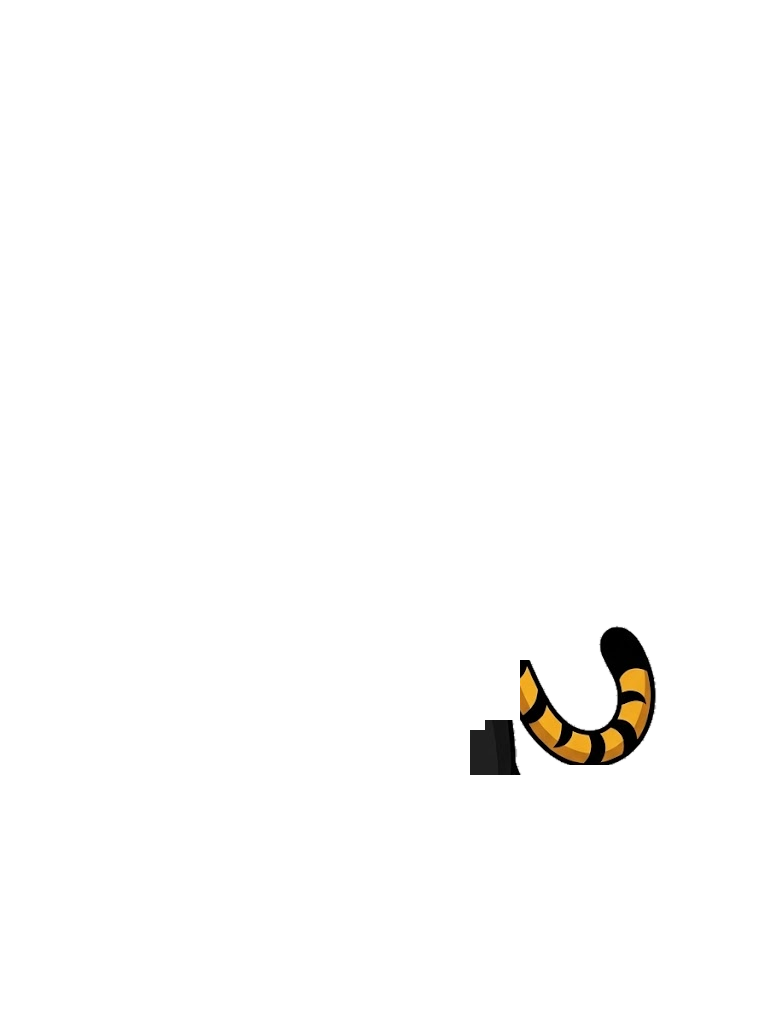
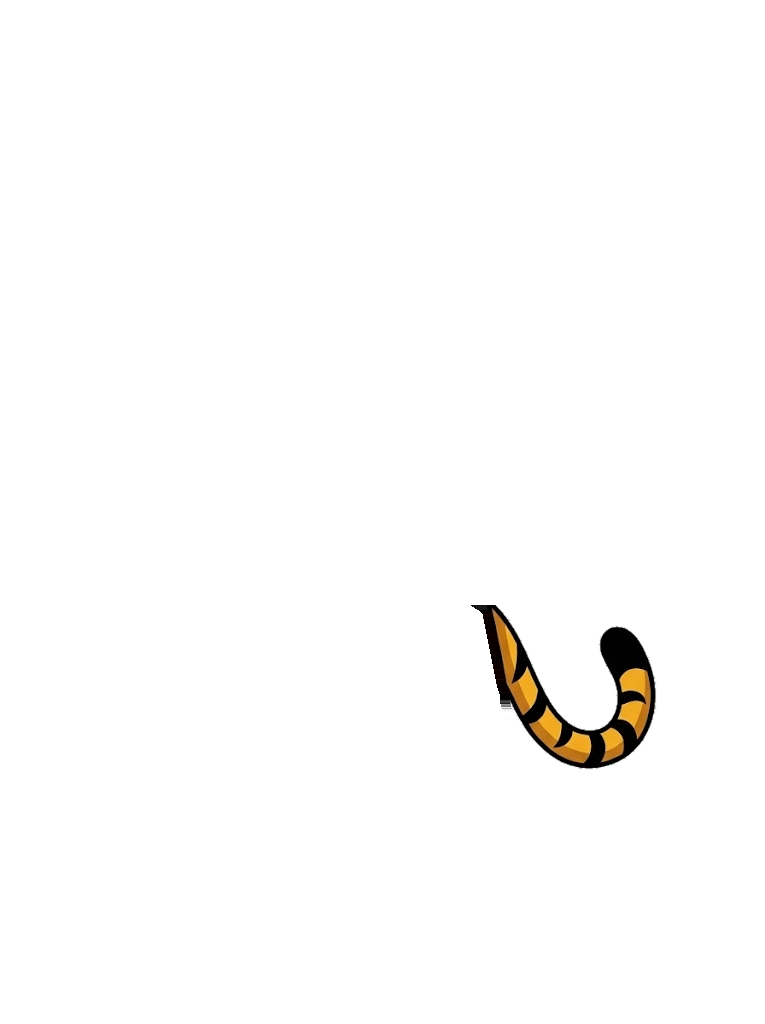
feat(mascot): add 2D layered rigging with motion, fix tail cut, and enlarge layout

Changed region(s): [[0.6013, 0.5938, 0.6915, 0.7812]]

diff --git a/src/components/mascot/RoboticTiger.tsx b/src/components/mascot/RoboticTiger.tsx
@@ -1,4 +1,5 @@
-import React from 'react';
+import React, { useState, useEffect } from 'react';
+import { motion, AnimatePresence } from 'motion/react';
 import { ASSET_MANIFEST } from '../../assets/assetManifest';
 
 export interface RoboticTigerProps {
@@ -10,11 +11,29 @@ export interface RoboticTigerProps {
 }
 
 export const RoboticTiger: React.FC<RoboticTigerProps> = ({
+  isStreaming,
   isStabilizing,
   isConfirmed,
   isComplete,
 }) => {
   const isExcited = isStabilizing || isConfirmed || isComplete;
+
+  // Accessibility: Respect user's reduced-motion preference
+  const [prefersReducedMotion, setPrefersReducedMotion] = useState(false);
+
+  useEffect(() => {
+    if (typeof window !== 'undefined' && window.matchMedia) {
+      const mediaQuery = window.matchMedia('(prefers-reduced-motion: reduce)');
+      setPrefersReducedMotion(mediaQuery.matches);
+
+      const handleChange = (e: MediaQueryListEvent) => {
+        setPrefersReducedMotion(e.matches);
+      };
+
+      mediaQuery.addEventListener('change', handleChange);
+      return () => mediaQuery.removeEventListener('change', handleChange);
+    }
+  }, []);
 
   return (
     <div className="relative w-full h-full flex items-end justify-center select-none overflow-hidden">
@@ -24,33 +43,142 @@ export const RoboticTiger: React.FC<RoboticTigerProps> = ({
         aria-hidden="true"
       />
 
-      {/* Layered Animated Mascot Structure */}
-      <div className="relative z-10 w-full max-w-[150px] sm:max-w-[200px] md:max-w-[250px] lg:max-w-[320px] flex items-end justify-center">
-        {/* Breathing & Swaying Wrapper */}
-        <div
-          className={`relative w-full h-auto aspect-[765/1024] animate-mascot-breathe transition-transform duration-300 ${
-            isComplete
-              ? 'scale-105'
-              : isConfirmed
-              ? 'scale-[1.02]'
-              : 'hover:scale-[1.01]'
-          }`}
-        >
-          {/* 1. Tail Layer (Behind Body, wags with anatomical hip pivot) */}
-          <img
+      {/* Layered Animated Mascot Structure with Expanded Sizing */}
+      <div className="relative z-10 w-full max-w-[200px] sm:max-w-[260px] md:max-w-[300px] lg:max-w-[360px] xl:max-w-[400px] flex items-end justify-center">
+        {/* Aspect-Ratio Container */}
+        <div className="relative w-full h-auto aspect-[765/1024]">
+          {/* 1. Stylized Angry Exclamation Mark (Pops up above head when camera is inactive) */}
+          <AnimatePresence>
+            {!isStreaming && !prefersReducedMotion && (
+              <motion.div
+                key="mascot-exclamation"
+                className="absolute z-30 pointer-events-none"
+                style={{ top: '2%', right: '22%' }}
+                initial={{ opacity: 0, scale: 0, rotate: -15, y: 12 }}
+                animate={{
+                  opacity: [0, 1, 1, 1, 0],
+                  scale: [0, 1.25, 0.95, 1, 0.85],
+                  rotate: [-15, -8, -10, -8, -12],
+                  y: [12, -4, 0, -2, 6],
+                }}
+                exit={{ opacity: 0, scale: 0 }}
+                transition={{
+                  duration: 3.8,
+                  repeat: Infinity,
+                  repeatDelay: 1.4,
+                  ease: 'easeOut',
+                }}
+                aria-hidden="true"
+              >
+                <div className="flex flex-col items-center select-none filter drop-shadow-[0_2px_5px_rgba(0,0,0,0.4)]">
+                  <div className="w-2.5 sm:w-3.5 h-6 sm:h-8 bg-maunc-yellow border-[2.5px] border-slate-950 rounded-[3px] -rotate-3" />
+                  <div className="w-2.5 sm:w-3.5 h-2.5 sm:h-3.5 bg-maunc-yellow border-[2.5px] border-slate-950 rounded-full mt-1 -rotate-3" />
+                </div>
+              </motion.div>
+            )}
+          </AnimatePresence>
+
+          {/* 2. TAIL LAYER (Back layer, wags smoothly from exact anatomical waist connection) */}
+          <motion.img
             src={ASSET_MANIFEST.mascotTail}
             alt="Ekor Maskot MAUNC"
-            className={`absolute inset-0 w-full h-full object-contain pointer-events-none select-none ${
-              isExcited ? 'animate-mascot-tail-fast' : 'animate-mascot-tail'
-            }`}
+            className="absolute inset-0 w-full h-full object-contain pointer-events-none select-none"
+            style={{
+              transformOrigin: '64.1% 60.1%',
+              willChange: 'transform',
+            }}
+            animate={
+              prefersReducedMotion
+                ? { rotate: 0 }
+                : isExcited
+                ? {
+                    rotate: [0, 7, -3, 9, -2, 6, 0],
+                    transition: {
+                      duration: 1.2,
+                      repeat: Infinity,
+                      ease: 'easeInOut',
+                    },
+                  }
+                : {
+                    rotate: [0, 4, -2, 5.5, -1, 3, 0],
+                    transition: {
+                      duration: 2.8,
+                      repeat: Infinity,
+                      ease: 'easeInOut',
+                    },
+                  }
+            }
             loading="eager"
           />
 
-          {/* 2. Body Layer (Front, occludes the tail root naturally) */}
-          <img
+          {/* 3. BODY LAYER (Middle layer: Torso, robotic & organic arms, jacket, pants, legs) */}
+          <motion.img
             src={ASSET_MANIFEST.mascotBody}
-            alt="MAUNC Robotic Tiger Mascot"
+            alt="Badan Maskot MAUNC"
             className="relative z-10 w-full h-full object-contain pointer-events-none select-none drop-shadow-md"
+            style={{
+              transformOrigin: '50% 90%',
+              willChange: 'transform',
+            }}
+            animate={
+              prefersReducedMotion
+                ? { scaleY: 1, translateY: 0, rotate: 0 }
+                : {
+                    scaleY: [1, 1.014, 1],
+                    translateY: [0, -3.5, 0],
+                    rotate: [0, 0.35, -0.35, 0],
+                  }
+            }
+            transition={{
+              duration: 3.6,
+              repeat: Infinity,
+              ease: 'easeInOut',
+            }}
+            loading="eager"
+          />
+
+          {/* 4. HEAD LAYER (Front layer: Face, cybernetic eye, ears, jaw & chin fur over collar) */}
+          <motion.img
+            src={ASSET_MANIFEST.mascotHead}
+            alt="Kepala Maskot MAUNC"
+            className="absolute inset-0 z-20 w-full h-full object-contain pointer-events-none select-none"
+            style={{
+              transformOrigin: '49.4% 25.9%',
+              willChange: 'transform',
+            }}
+            animate={
+              prefersReducedMotion
+                ? { rotate: 0 }
+                : isExcited
+                ? {
+                    rotate: [0, 1.5, -1.5, 0],
+                    transition: {
+                      duration: 1.4,
+                      repeat: Infinity,
+                      ease: 'easeInOut',
+                    },
+                  }
+                : isStreaming
+                ? {
+                    rotate: [0, -0.8, 0.8, 0],
+                    transition: {
+                      duration: 3.2,
+                      repeat: Infinity,
+                      ease: 'easeInOut',
+                    },
+                  }
+                : {
+                    // Impatient head shake when camera is inactive:
+                    // Stays attentive, then performs subtle robotic left/right shake and settles
+                    rotate: [0, 0, -3, 3, -2, 1.5, 0, 0],
+                    transition: {
+                      duration: 4.4,
+                      repeat: Infinity,
+                      times: [0, 0.45, 0.53, 0.61, 0.69, 0.76, 0.83, 1],
+                      ease: 'easeInOut',
+                    },
+                  }
+            }
             loading="eager"
           />
         </div>

diff --git a/src/styles/index.css b/src/styles/index.css
@@ -18,76 +18,6 @@
   }
 }
 
-/* Mascot idle breathing & swaying animation */
-@keyframes mascotBreathe {
-  0%, 100% {
-    transform: translateY(0) scaleY(1) rotate(0deg);
-  }
-  50% {
-    transform: translateY(-5px) scaleY(1.018) rotate(0.6deg);
-  }
-}
-
-/* Mascot tail wagging animation from anatomical hip root */
-@keyframes tailWag {
-  0%, 100% {
-    transform: rotate(0deg);
-  }
-  20% {
-    transform: rotate(7.5deg);
-  }
-  45% {
-    transform: rotate(-3.5deg);
-  }
-  70% {
-    transform: rotate(9deg);
-  }
-  85% {
-    transform: rotate(-1.5deg);
-  }
-}
-
-/* Excited tail wagging when gesture is being recognized or confirmed */
-@keyframes tailWagFast {
-  0%, 100% {
-    transform: rotate(0deg);
-  }
-  25% {
-    transform: rotate(12deg);
-  }
-  50% {
-    transform: rotate(-6deg);
-  }
-  75% {
-    transform: rotate(13deg);
-  }
-}
-
-.animate-mascot-breathe {
-  animation: mascotBreathe 3.6s ease-in-out infinite;
-  transform-origin: bottom center;
-}
-
-.animate-mascot-tail {
-  animation: tailWag 2.4s cubic-bezier(0.4, 0, 0.2, 1) infinite;
-  transform-origin: 72.6% 74.6%;
-  will-change: transform;
-}
-
-.animate-mascot-tail-fast {
-  animation: tailWagFast 1.1s cubic-bezier(0.4, 0, 0.2, 1) infinite;
-  transform-origin: 72.6% 74.6%;
-  will-change: transform;
-}
-
-@media (prefers-reduced-motion: reduce) {
-  .animate-mascot-breathe,
-  .animate-mascot-tail,
-  .animate-mascot-tail-fast {
-    animation: none !important;
-  }
-}
-
 /* Custom subtle scrollbar */
 ::-webkit-scrollbar {
   width: 6px;

diff --git a/src/components/layout/MainLayout.tsx b/src/components/layout/MainLayout.tsx
@@ -23,13 +23,13 @@ export const MainLayout: React.FC<MainLayoutProps> = ({
       {/* Mobile: flows naturally with smooth touch scrolling */}
       <main className="flex-1 min-h-0 w-full max-w-[1440px] mx-auto px-3 sm:px-4 md:px-6 py-2 md:py-2.5 flex flex-col justify-center">
         <div className="grid grid-cols-1 lg:grid-cols-12 gap-3 sm:gap-4 md:gap-5 lg:gap-6 items-center h-full">
-          {/* Left Column: Prominent Robotic Tiger Mascot (~17% width on desktop) */}
-          <div className="hidden lg:flex lg:col-span-2 h-full max-h-[480px] xl:max-h-[520px] items-end justify-center relative overflow-hidden rounded-2xl">
+          {/* Left Column: Prominent Robotic Tiger Mascot (~25% width on desktop) */}
+          <div className="hidden lg:flex lg:col-span-3 h-full max-h-[500px] xl:max-h-[540px] items-end justify-center relative overflow-hidden rounded-2xl">
             {mascotNode}
           </div>
 
-          {/* Center Column: Dominant Live Camera Viewport (~58% width on desktop) */}
-          <div className="col-span-1 lg:col-span-7 w-full h-[260px] sm:h-[340px] md:h-[420px] lg:h-full lg:max-h-[480px] xl:max-h-[520px] flex flex-col">
+          {/* Center Column: Dominant Live Camera Viewport (~50% width on desktop, expanded height) */}
+          <div className="col-span-1 lg:col-span-6 w-full h-[260px] sm:h-[340px] md:h-[420px] lg:h-full lg:max-h-[500px] xl:max-h-[540px] flex flex-col">
             {cameraNode}
           </div>
 

diff --git a/src/components/layout/Header.tsx b/src/components/layout/Header.tsx
@@ -22,18 +22,6 @@ export const Header: React.FC = () => {
           </div>
         </div>
 
-        {/* Center: Understated Industrial Vision Interface Badge */}
-        <div className="hidden md:flex items-center gap-2 px-3.5 py-1 rounded-full bg-slate-50 border border-slate-200/90 text-slate-700 shadow-xs">
-          <span className="w-2 h-2 rounded-full bg-maunc-yellow animate-pulse" />
-          <span className="text-[11px] font-mono font-bold tracking-wider text-slate-900 uppercase">
-            VISION INTERFACE
-          </span>
-          <span className="text-slate-300 font-mono text-[11px]">/</span>
-          <span className="text-[10px] font-sans font-medium text-slate-600 tracking-tight">
-            Gesture Control System
-          </span>
-        </div>
-
         {/* Right: Official MAUNC Yellow Stripes (///) */}
         <div className="flex items-center gap-1 md:gap-1.5 shrink-0">
           <div className="w-2 md:w-2.5 h-5 md:h-6 bg-maunc-yellow -skew-x-[28deg] rounded-[1px]" />

diff --git a/src/assets/assetManifest.ts b/src/assets/assetManifest.ts
@@ -7,6 +7,7 @@
 export const ASSET_MANIFEST = {
   logo: '/elements/Logo MAUNC.png',
   mascot: '/elements/maunc_mascot_nobg.png',
+  mascotHead: '/elements/maunc_mascot_head.png',
   mascotBody: '/elements/maunc_mascot_body.png',
   mascotTail: '/elements/maunc_mascot_tail.png',
   mascotOriginal: '/elements/maunc_mascot.jpg',
